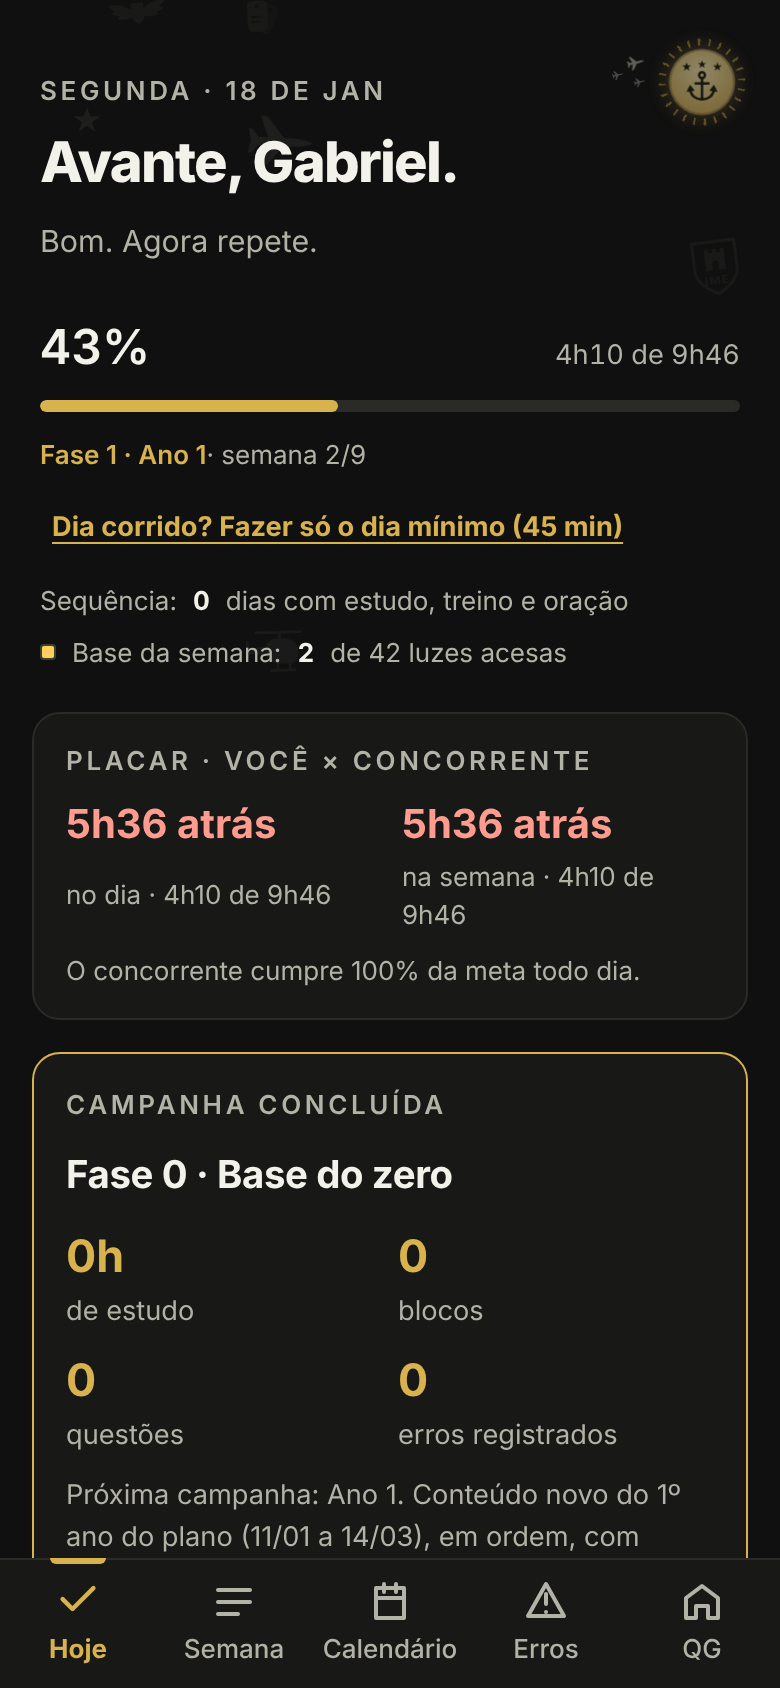
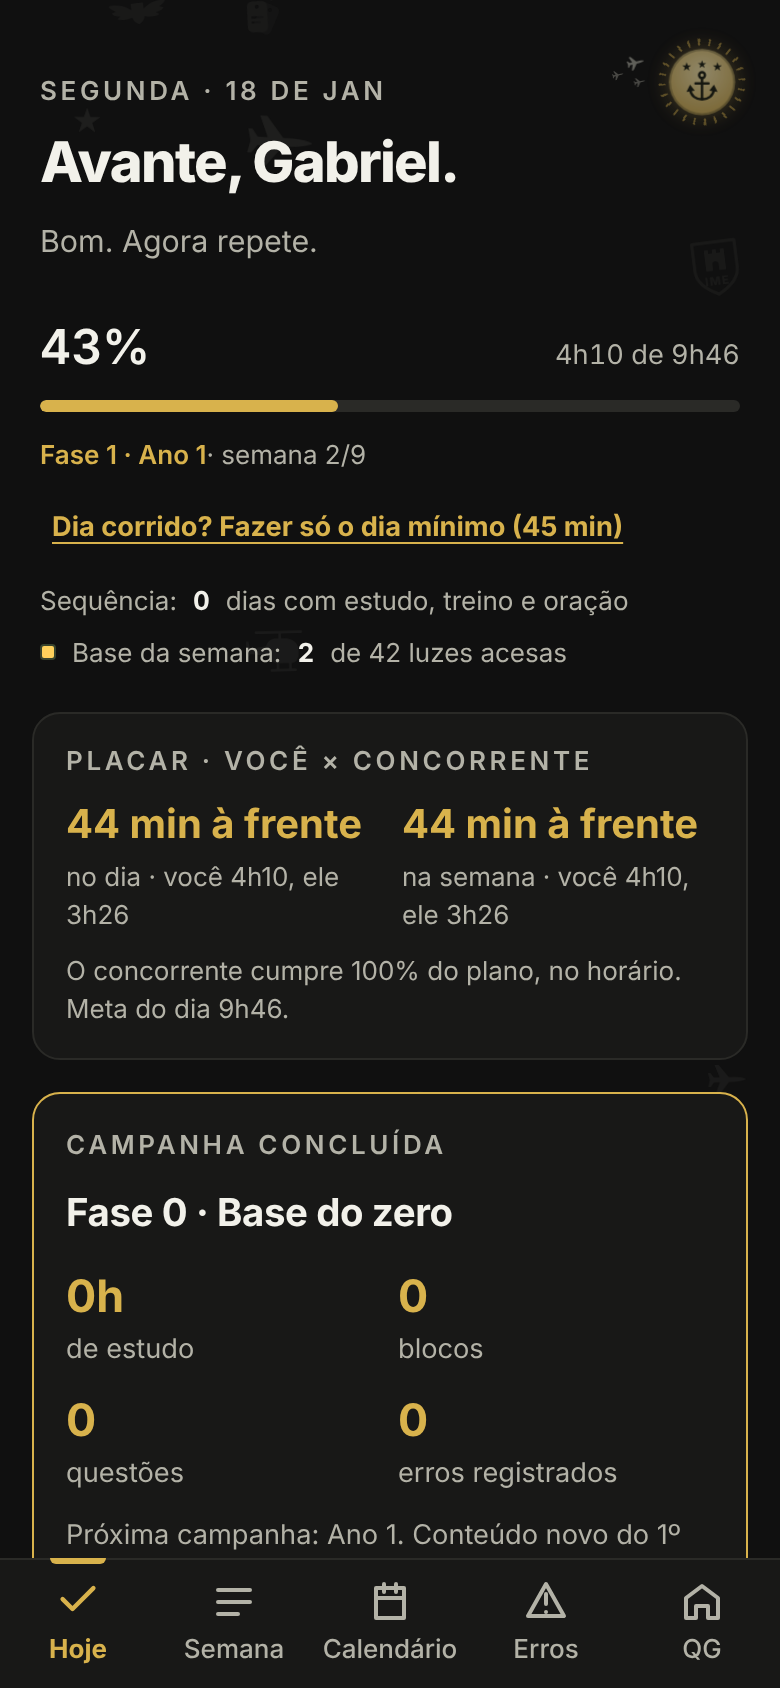
WIP: placar até agora e resumo de 14 dias (checkpoint)
Claude-Session: https://claude.ai/code/session_018XmdgBTzAW2i8pzxkZNDQ8

diff --git a/tests/avisos.test.js b/tests/avisos.test.js
@@ -2,7 +2,7 @@ import { describe, it, expect } from 'vitest';
 import seed from '../src/data/seed.json';
 import { migrarCfg } from '../src/lib/migracao.js';
 import { fraseDoDia, bancoDoTom } from '../src/lib/frases.js';
-import { resumoDoDia, devidoAte, situacaoDoDia, feitoDoResumo, janelaDe, emSilencio, decidirAviso, placar, textoSaldo, textoAviso, LIMIAR_MIN } from '../src/lib/avisos.js';
+import { resumoDoDia, devidoAte, situacaoDoDia, feitoDoResumo, janelaDe, emSilencio, decidirAviso, placar, textoSaldo, textoAviso, LIMIAR_MIN, RESUMO_DIAS } from '../src/lib/avisos.js';
 
 const h = (s) => { const [a, b] = s.split(':').map(Number); return a * 60 + b; };
 // 06:30–08:20 (100 min), 08:30–10:20 (100 min), 14:00–15:40 (100 min)
@@ -12,23 +12,25 @@ const blocos = [
 const resumo = (extra = {}) => resumoDoDia({ dia: '2027-01-18', blocos, dormir: '22:00', acordar: '05:00', ...extra });
 
 describe('atraso do dia', () => {
-  it('devido = blocos cujo horário de fim já passou', () => {
+  it('devido = blocos terminados mais a fração do bloco em andamento', () => {
     const r = resumo();
     expect(devidoAte(r.blocos, h('06:00'))).toBe(0);
-    expect(devidoAte(r.blocos, h('09:00'))).toBe(100);
+    expect(devidoAte(r.blocos, h('08:30'))).toBe(100);
+    expect(devidoAte(r.blocos, h('07:25'))).toBe(50); // metade do 1º bloco
     expect(devidoAte(r.blocos, h('10:30'))).toBe(200);
     expect(devidoAte(r.blocos, h('16:00'))).toBe(300);
     expect(r.meta).toBe(300);
   });
   it('zerado: nenhum bloco feito depois do fim do primeiro', () => {
-    const s = situacaoDoDia(resumo(), 0, h('10:00'));
-    expect(s).toMatchObject({ cobra: true, atrasado: true, zerado: true, falta: 100, inicio1: h('06:30') });
+    const s = situacaoDoDia(resumo(), 0, h('10:30'));
+    expect(s).toMatchObject({ cobra: true, atrasado: true, zerado: true, falta: 200, inicio1: h('06:30') });
   });
   it('atrasado sem zerar, em dia e dentro do limiar', () => {
     const r = resumo();
     expect(situacaoDoDia(r, 100, h('10:30'))).toMatchObject({ atrasado: true, zerado: false, falta: 100 });
     expect(situacaoDoDia(r, 200, h('10:30')).atrasado).toBe(false);
     expect(situacaoDoDia(r, 100, h('08:00')).atrasado).toBe(false);
+    expect(situacaoDoDia(r, 110, h('09:00')).atrasado).toBe(false); // devido 127, falta 17 (abaixo do limiar)
     expect(LIMIAR_MIN).toBeGreaterThan(0);
   });
   it('feito vem dos blocos marcados do resumo', () => {
@@ -71,6 +73,7 @@ describe('janela, silêncio e aviso', () => {
     expect(a.titulo).toBe('Sargento');
     expect(a.corpo).toContain('10h. Zero blocos. Seu concorrente começou às 6h30.');
     expect(decidirAviso({ resumo: r, feito: 0, agora: h('11:00'), notificados: { [a.chave]: 1 } })).toBeNull(); // mesma janela
+    expect(decidirAviso({ resumo: undefined, feito: 0, agora: h('11:00') })).toBeNull(); // resumo vencido: silêncio
     expect(decidirAviso({ resumo: r, feito: 0, agora: h('16:00'), notificados: { [a.chave]: 1 } }).janela).toBe('tarde'); // outra janela
     expect(decidirAviso({ resumo: resumo({ acordar: '10:30' }), feito: 0, agora: h('10:00') })).toBeNull(); // ainda dormindo
     expect(decidirAviso({ resumo: resumo({ dormir: '19:00' }), feito: 0, agora: h('20:00') })).toBeNull(); // já deitado
@@ -84,17 +87,22 @@ describe('janela, silêncio e aviso', () => {
 });
 
 describe('placar contra o concorrente', () => {
-  const semana = [
-    { dia: '2027-01-18', meta: 300, feito: 200 }, { dia: '2027-01-19', meta: 300, feito: 0 }, { dia: '2027-01-20', meta: 300, feito: 0 },
-  ];
-  it('dia e semana (só até hoje): saldo = feito - meta', () => {
-    expect(placar(semana, '2027-01-18')).toEqual({ dia: { meta: 300, feito: 200, saldo: -100 }, semana: { meta: 300, feito: 200, saldo: -100 } });
-    const p = placar([{ dia: '2027-01-18', meta: 300, feito: 360 }, { dia: '2027-01-19', meta: 300, feito: 200 }], '2027-01-19');
-    expect(p.dia.saldo).toBe(-100); expect(p.semana.saldo).toBe(-40);
+  const dia = (d, feito) => ({ dia: d, blocos, feito }); // meta 300 por dia
+  it('compara com o que o concorrente já fez até agora, não com o dia inteiro', () => {
+    const p = placar([dia('2027-01-18', 250)], '2027-01-18', h('10:30'));
+    expect(p.dia).toEqual({ meta: 300, devido: 200, feito: 250, saldo: 50 });
+    expect(placar([dia('2027-01-18', 0)], '2027-01-18', h('06:00')).dia.saldo).toBe(0);
+    expect(placar([dia('2027-01-18', 100)], '2027-01-18', h('07:25')).dia.saldo).toBe(50); // fração do bloco em andamento
+  });
+  it('semana: dias anteriores inteiros + hoje até agora; futuros não contam', () => {
+    const p = placar([dia('2027-01-18', 300), dia('2027-01-19', 100), dia('2027-01-20', 0)], '2027-01-19', h('10:30'));
+    expect(p.semana).toEqual({ meta: 600, devido: 500, feito: 400, saldo: -100 });
+    expect(p.dia.saldo).toBe(-100);
   });
   it('texto: atrás, à frente e empatado', () => {
     expect(textoSaldo(-150)).toBe('2h30 atrás'); expect(textoSaldo(60)).toBe('1h à frente'); expect(textoSaldo(0)).toBe('empatado');
   });
+  it('o resumo cobre 14 dias', () => { expect(RESUMO_DIAS).toBe(14); });
 });
 
 describe('modo Sargento: frases e migração', () => {

diff --git a/src/lib/avisos.js b/src/lib/avisos.js
@@ -4,6 +4,7 @@
 import { fmtMin } from './dates.js';
 
 export const LIMIAR_MIN = 20; // abaixo disso de atraso, não cobra
+export const RESUMO_DIAS = 14; // dias que o app grava no resumo para o SW
 export const VENCE_SEM_HORA = 18 * 60; // bloco sem horário (dia mínimo, caderno de erros) vence às 18h
 export const JANELAS = [['manha', 6 * 60, 12 * 60], ['tarde', 12 * 60, 18 * 60], ['noite', 18 * 60, 22 * 60]];
 export const janelaDe = (min) => JANELAS.find(([, a, z]) => min >= a && min < z)?.[0] ?? null;
@@ -21,20 +22,23 @@ export function emSilencio(min, dormir, acordar) {
  * Resumo do dia que o SW lê: blocos { id, ini, fim, min, semHora? } (minutos), dormir/acordar (HH:MM), meta (min) e `livre`.
  * Blocos sem horário vencem às 18h. Dia livre (feriado) ou sem blocos não cobra.
  */
-export function resumoDoDia({ dia, blocos = [], dormir, acordar, livre = false }) {
-  const lista = blocos.map((b) => {
+export function normalizarBlocos(blocos = []) {
+  return blocos.map((b) => {
     const ini = typeof b.ini === 'string' ? hm(b.ini) : b.ini, fim = typeof b.fim === 'string' ? hm(b.fim) : b.fim;
     if (ini == null || fim == null || Number.isNaN(ini) || Number.isNaN(fim)) return { id: b.id, ini: VENCE_SEM_HORA - b.min, fim: VENCE_SEM_HORA, min: b.min, semHora: true };
     return { id: b.id, ini, fim, min: b.min };
   }).sort((x, y) => x.fim - y.fim);
+}
+export function resumoDoDia({ dia, blocos = [], dormir, acordar, livre = false }) {
+  const lista = normalizarBlocos(blocos);
   return { dia, blocos: lista, dormir, acordar, meta: lista.reduce((s, b) => s + b.min, 0), livre: !!livre };
 }
 
 /** Minutos feitos hoje: soma dos blocos do resumo que estão marcados em `done` (objeto id -> registro). */
 export const feitoDoResumo = (resumo, done = {}) => (resumo?.blocos ?? []).reduce((s, b) => s + (done[b.id] ? b.min : 0), 0);
 
-/** Minutos que já deveriam estar feitos às `min`: blocos cujo horário de fim já passou. */
-export const devidoAte = (blocos = [], min) => blocos.reduce((s, b) => s + (b.fim <= min ? b.min : 0), 0);
+/** Minutos que já deveriam estar feitos às `min`: blocos terminados mais a fração do bloco em andamento (arredondado). */
+export const devidoAte = (blocos = [], min) => Math.round(blocos.reduce((s, b) => s + (min >= b.fim || b.fim <= b.ini ? (min >= b.fim ? b.min : 0) : min <= b.ini ? 0 : b.min * (min - b.ini) / (b.fim - b.ini)), 0));
 
 /** Situação do dia: { cobra, atrasado, zerado, devido, feito, falta, inicio1 }. */
 export function situacaoDoDia(resumo, feito, agora) {
@@ -80,13 +84,20 @@ export function decidirAviso({ resumo, feito = 0, agora, notificados = {}, tom =
 // ---------- placar contra o concorrente ----------
 // O concorrente cumpre 100% da meta do plano todo dia. Você: minutos feitos. Saldo = feito - meta (negativo = atrás).
 
-/** Saldo do dia e da semana. `dias` = [{ dia, meta, feito }] da semana; só contam os dias até `hoje` (inclusive). */
-export function placar(dias, hoje) {
-  const ate = dias.filter((d) => d.dia <= hoje), h = dias.find((d) => d.dia === hoje);
-  const soma = (k) => ate.reduce((s, d) => s + (d[k] ?? 0), 0);
-  const dia = { meta: h?.meta ?? 0, feito: h?.feito ?? 0 };
-  const semana = { meta: soma('meta'), feito: soma('feito') };
-  return { dia: { ...dia, saldo: dia.feito - dia.meta }, semana: { ...semana, saldo: semana.feito - semana.meta } };
+/**
+ * Saldo do dia e da semana contra o concorrente, que só fez o que o plano já pedia ATÉ AGORA (`agora` em minutos).
+ * `dias` = [{ dia, blocos (com ini/fim/min), feito }]; dias anteriores contam inteiros, hoje até agora, dias futuros não contam.
+ * Devolve { dia: { meta, devido, feito, saldo }, semana: { meta, devido, feito, saldo } }; saldo = feito - devido.
+ */
+export function placar(dias, hoje, agora) {
+  const linhas = dias.filter((d) => d.dia <= hoje).map((d) => {
+    const bl = normalizarBlocos(d.blocos), meta = bl.reduce((s, b) => s + b.min, 0);
+    return { dia: d.dia, meta, devido: d.dia < hoje ? meta : devidoAte(bl, agora), feito: d.feito ?? 0 };
+  });
+  const h = linhas.find((l) => l.dia === hoje) ?? { meta: 0, devido: 0, feito: 0 };
+  const soma = (k) => linhas.reduce((s, l) => s + l[k], 0);
+  const mk = (o) => ({ ...o, saldo: o.feito - o.devido });
+  return { dia: mk({ meta: h.meta, devido: h.devido, feito: h.feito }), semana: mk({ meta: soma('meta'), devido: soma('devido'), feito: soma('feito') }) };
 }
 
 /** "2h30 atrás", "1h à frente" ou "empatado". */

diff --git a/src/screens/Hoje.svelte b/src/screens/Hoje.svelte
@@ -36,8 +36,8 @@
   const REV_MIN = 10;
   const diaCurto = (d) => `${diaNome(d).slice(0, 3)} ${fmtBR(d).slice(0, 5)}`;
   let aberto = $state(null), assuntos = $state({}), verCarta = $state(false), fotoAberta = $state(null);
-  let hora = $state(new Date().getHours());
-  $effect(() => { const i = setInterval(() => (hora = new Date().getHours()), 60000); return () => clearInterval(i); });
+  let hora = $state(new Date().getHours()), agoraMin = $state(new Date().getHours() * 60 + new Date().getMinutes());
+  $effect(() => { const i = setInterval(() => { const d = new Date(); hora = d.getHours(); agoraMin = hora * 60 + d.getMinutes(); }, 60000); return () => clearInterval(i); });
 
   const EMB = { en: 'en', efomm: 'efomm', esa: 'esa', ita: 'ita', ime: 'ime' }; // emblema do concurso na contagem regressiva
   const fs = $derived(fases());
@@ -117,7 +117,7 @@
 
   // Placar contra o concorrente (modo Sargento): ele cumpre 100% da meta todo dia; saldo = feito - meta.
   const sargento = $derived(app.cfg.tom !== 'padrao');
-  const pl = $derived(placar(semana.map((plan, i) => ({ dia: addDays(startOfWeek(app.dia), i), meta: plan.reduce((s, b) => s + b.min, 0), feito: plan.reduce((s, b) => s + (app.done[b.id] ? b.min : 0), 0) })), app.dia));
+  const pl = $derived(placar(semana.map((plan, i) => ({ dia: addDays(startOfWeek(app.dia), i), blocos: plan, feito: plan.reduce((s, b) => s + (app.done[b.id] ? b.min : 0), 0) })), app.dia, agoraMin));
 
   function comecar(b) {
     if (app.timer && app.timer.id !== b.id && !confirm(`Já há um cronômetro de ${app.timer.titulo}. Trocar por ${b.titulo}?`)) return;
@@ -177,10 +177,10 @@
   <section class="card placar" aria-label="Placar contra o concorrente">
     <p class="data">Placar · você × concorrente</p>
     <div class="pl">
-      <div><strong class:atras={pl.dia.saldo < 0}>{textoSaldo(pl.dia.saldo)}</strong><span>no dia · {fmtMin(pl.dia.feito)} de {fmtMin(pl.dia.meta)}</span></div>
-      <div><strong class:atras={pl.semana.saldo < 0}>{textoSaldo(pl.semana.saldo)}</strong><span>na semana · {fmtMin(pl.semana.feito)} de {fmtMin(pl.semana.meta)}</span></div>
+      <div><strong class:atras={pl.dia.saldo < 0}>{textoSaldo(pl.dia.saldo)}</strong><span>no dia · você {fmtMin(pl.dia.feito)}, ele {fmtMin(pl.dia.devido)}</span></div>
+      <div><strong class:atras={pl.semana.saldo < 0}>{textoSaldo(pl.semana.saldo)}</strong><span>na semana · você {fmtMin(pl.semana.feito)}, ele {fmtMin(pl.semana.devido)}</span></div>
     </div>
-    <p class="sub">O concorrente cumpre 100% da meta todo dia.</p>
+    <p class="sub">O concorrente cumpre 100% do plano, no horário. Meta do dia {fmtMin(pl.dia.meta)}.</p>
   </section>
 {/if}
 

diff --git a/src/stores/app.svelte.js b/src/stores/app.svelte.js
@@ -21,7 +21,7 @@ import { planoPrazos, dividasAtuais, contarBlocos, temPrazo, chave as chavePrazo
 import { horasEntre, noiteDe, validarNoite, horariosNoite, acordarDe } from '../lib/sono.js';
 import { blocosAjustados } from '../lib/planner.js';
 import { diaLivre } from '../lib/rotina.js';
-import { resumoDoDia } from '../lib/avisos.js';
+import { resumoDoDia, RESUMO_DIAS } from '../lib/avisos.js';
 import { agendarTelas, registrarPeriodico } from '../lib/notify.js';
 
 // Dados guardados como chave única no "kv" do IndexedDB.
@@ -83,11 +83,11 @@ const MEXE_NO_RESUMO = ['adiados', 'dificeis', 'sono', 'sonoNoites'];
 export const salvarKV = (k) => { if (MEXE_NO_RESUMO.includes(k)) agendarResumo(); return db.put('kv', k, snap(app[k])); };
 
 // ---------- resumo para os avisos com o app fechado ----------
-/** Grava em kv 'resumoAvisos' o plano dos próximos 4 dias (blocos, dormir/acordar, meta): é o que o service worker lê. */
+/** Grava em kv 'resumoAvisos' o plano dos próximos 14 dias (blocos, dormir/acordar, meta): é o que o service worker lê. */
 export async function gravarResumo() {
   try {
     const fs = fases(), planos = new Map(), ctx = { noites: app.sonoNoites, sono: app.sono }, dias = {};
-    for (let i = 0; i < 4; i++) {
+    for (let i = 0; i < RESUMO_DIAS; i++) {
       const d = addDays(app.dia, i), livre = diaLivre(app.cfg, d);
       const blocos = livre ? [] : blocosAjustados(app.cfg, fs, d, { ...ajustes(), planos });
       dias[d] = resumoDoDia({ dia: d, blocos, dormir: horariosNoite(app.cfg, d, ctx).dormir, acordar: acordarDe(app.cfg, d, ctx), livre });

diff --git a/src/sw.js b/src/sw.js
@@ -21,8 +21,9 @@ async function cobrar() {
   const [geral, notificados, done] = await Promise.all([db.get('kv', 'resumoAvisos'), db.get('kv', 'notificados'), db.all('done')]);
   if (!geral?.ativo) return;
   const agora = new Date(), dia = iso(agora);
-  const resumo = geral.dias?.[dia];
-  const aviso = decidirAviso({ resumo, feito: feitoDoResumo(resumo, done), agora: agora.getHours() * 60 + agora.getMinutes(), notificados: notificados ?? {}, tom: geral.tom });
+  const resumo = geral.dias?.[dia], min = agora.getHours() * 60 + agora.getMinutes();
+  // resumo vencido (14 dias sem abrir o app): fica em silêncio
+  const aviso = decidirAviso({ resumo, feito: feitoDoResumo(resumo, done), agora: min, notificados: notificados ?? {}, tom: geral.tom });
   if (!aviso) return;
   await db.put('kv', 'notificados', { ...(notificados ?? {}), [aviso.chave]: 1 });
   await self.registration.showNotification(aviso.titulo, { body: aviso.corpo, tag: 'cobranca', icon: 'icon-192.png', data: { url: urlHoje() } });

diff --git a/src/screens/Semana.svelte b/src/screens/Semana.svelte
@@ -18,7 +18,8 @@
   });
   const ini = $derived(startOfWeek(app.dia));
   const dias = $derived(semana(ini));
-  const pl = $derived(placar(dias, app.dia));
+  const agoraMin = new Date().getHours() * 60 + new Date().getMinutes();
+  const pl = $derived(placar(dias.map((d) => ({ dia: d.dia, blocos: d.plan, feito: d.feito })), app.dia, agoraMin));
   const feitoTotal = $derived(dias.reduce((s, d) => s + d.feito, 0));
   const metaTotal = $derived(dias.reduce((s, d) => s + d.meta, 0));
   // matéria -> minutos feitos
